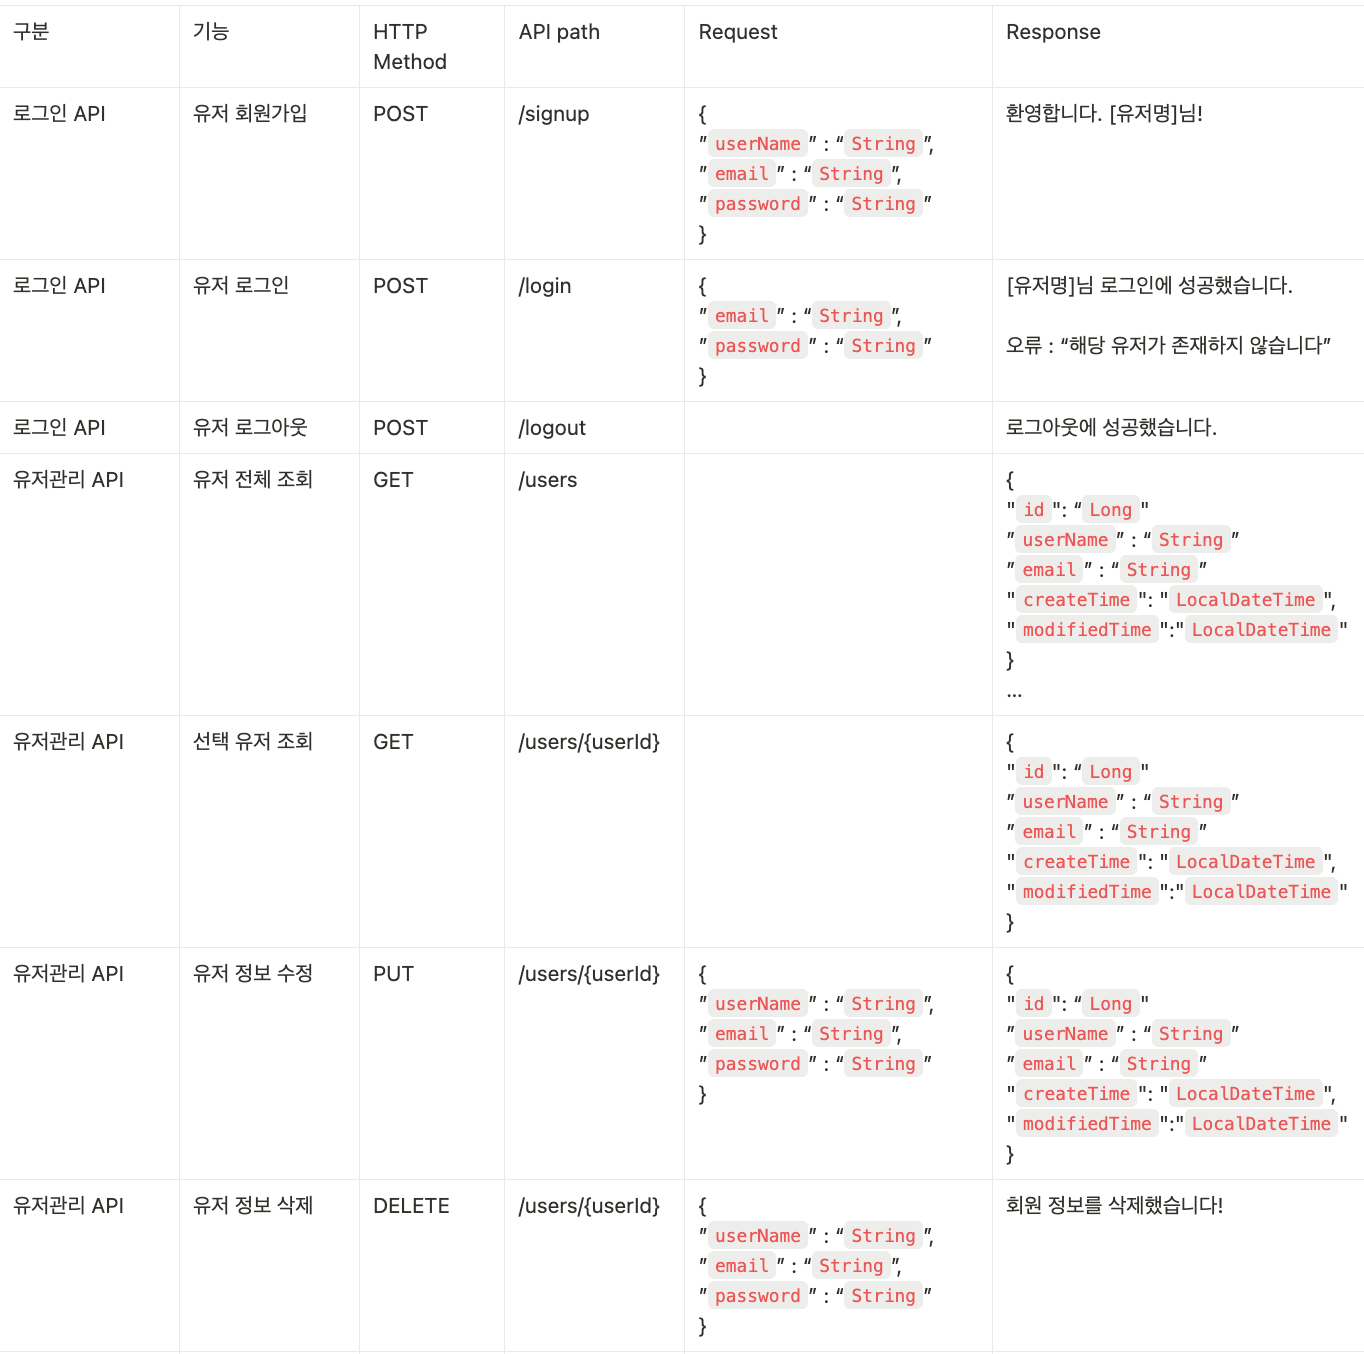
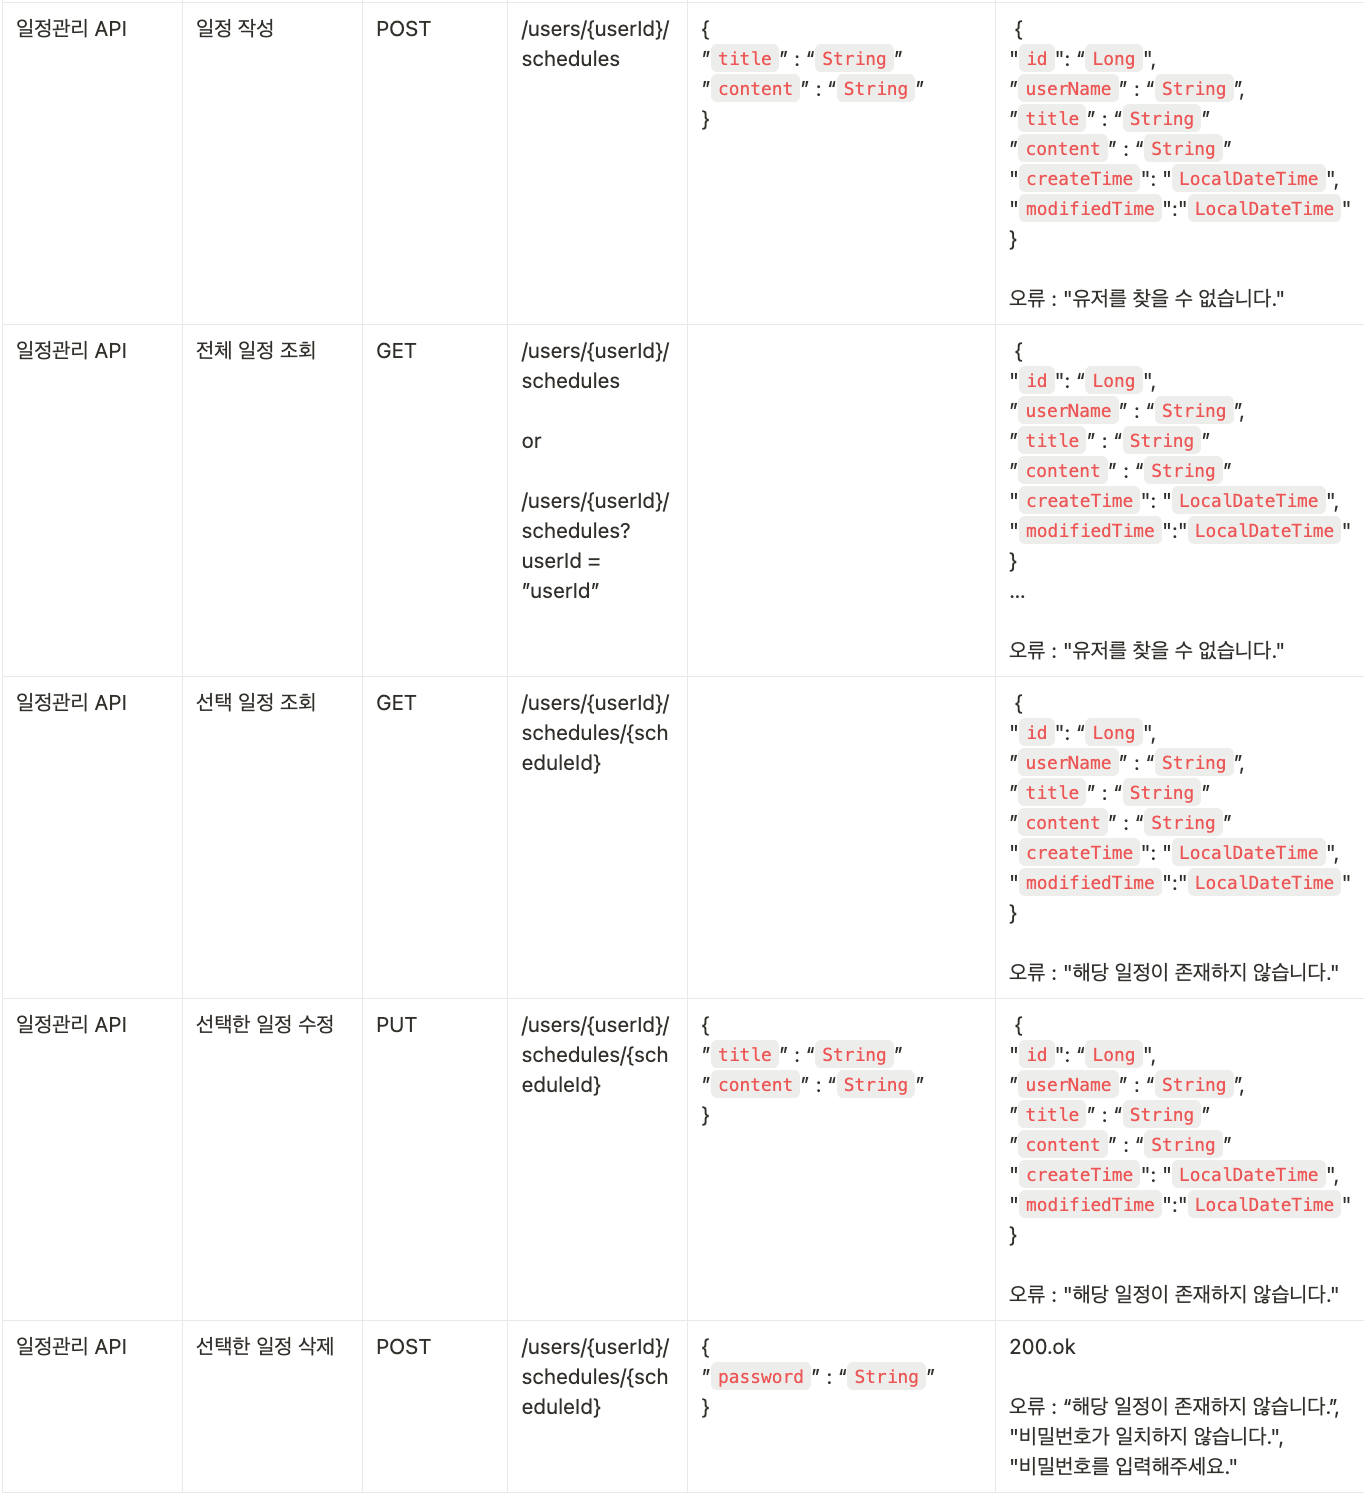
코드 설명 주석처리 및 리드미 작성 및 변경사항 수정

diff --git a/src/main/java/org/example/scheduleManagement/schedule/controller/ScheduleController.java b/src/main/java/org/example/scheduleManagement/schedule/controller/ScheduleController.java
@@ -13,48 +13,56 @@ import org.springframework.web.bind.annotation.*;
 
 import java.util.List;
 
-@RestController
-@RequiredArgsConstructor
-@RequestMapping("/users")
+@RestController // Controller + ResponseBody
+@RequiredArgsConstructor // final 필드에 대한 생성자를 자동 생성
+@RequestMapping("/users") // 이 컨트롤러의 기본 URL "/users"로 지정
 public class ScheduleController {
     private final ScheduleService scheduleService;
 
+    // 일정 등록 주소(Post) http://localhost:8080/users/{userId}/schedules
     @PostMapping("/{userId}/schedules")
     public ResponseEntity<SchedulePostResponse> schedulePost(
             @RequestBody SchedulePostRequest schedulePostRequest,
-            @PathVariable Long userId
+            @PathVariable Long userId // URL 경로에서 사용자 ID를 입력 받는다.
     ) {
         return ResponseEntity.ok(scheduleService.createSchedule(userId, schedulePostRequest));
     }
 
+    // 모든 일정 조회 or 특정 사용자(userId)의 일정만 조회
+    // 주소(Get) http://localhost:8080/users/{userId}/schedules
+    // OR http://localhost:8080/users/users/{userId}/schedules?userId = ”userId”
     @GetMapping("/schedules")
     public ResponseEntity<List<ScheduleGetResponse>> getSchedules(
-            @RequestParam(required = false) Long userId // 유저 아이디가 있을 수도 있고 없을 수도 있다.
+            @RequestParam(required = false) Long userId // 유저 아이디가 있을 수도 있고 없을 수도 있다.(null 가능)
     ) {
+        // userId가 있으면 해당 유저 일정만, 없으면 전체 일정 조회
         return ResponseEntity.ok(scheduleService.getSchedules(userId));
     }
 
+    // 일정 선택 조회 주소(Get) http://localhost:8080/users/{userId}/schedules/{scheduleId}
     @GetMapping("/{userId}/schedules/{scheduleId}")
     public ResponseEntity<ScheduleGetResponse> getSchedule(
-            @PathVariable Long userId,
-            @PathVariable Long scheduleId
+            @PathVariable Long userId, // URL 경로에서 사용자 ID를 입력 받는다.
+            @PathVariable Long scheduleId // URL 경로에서 일정 ID를 입력 받는다.
     ) {
         return ResponseEntity.ok(scheduleService.getSchedule(userId, scheduleId));
     }
 
+    // 일정 수정 주소(Put) http://localhost:8080/users/{userId}/schedules/{scheduleId}
     @PutMapping("/{userId}/schedules/{scheduleId}")
     public ResponseEntity<SchedulePutResponse> updateSchedule(
-            @RequestBody SchedulePutRequest schedulePutRequest,
-            @PathVariable Long userId,
-            @PathVariable Long scheduleId
-    ) {
+            @PathVariable Long userId, // URL 경로에서 사용자 ID를 입력 받는다.
+            @PathVariable Long scheduleId, // URL 경로에서 일정 ID를 입력 받는다.
+            @RequestBody SchedulePutRequest schedulePutRequest
+            ) {
         return ResponseEntity.ok(scheduleService.updateSchedule(userId, scheduleId, schedulePutRequest));
     }
 
+    // 일정 삭제 주소(Post) http://localhost:8080/users/{userId}/schedules/{scheduleId}
     @PostMapping("/{userId}/schedules/{scheduleId}")
     public ResponseEntity<Void> deleteSchedule(
-            @PathVariable Long userId,
-            @PathVariable Long scheduleId,
+            @PathVariable Long userId, // URL 경로에서 사용자 ID를 입력 받는다.
+            @PathVariable Long scheduleId, // URL 경로에서 일정 ID를 입력 받는다.
             @RequestBody ScheduleDeleteRequest scheduleDeleteRequest
     ) {
         scheduleService.deleteSchedule(userId, scheduleId, scheduleDeleteRequest);

diff --git a/src/main/java/org/example/scheduleManagement/auth/controller/AuthController.java b/src/main/java/org/example/scheduleManagement/auth/controller/AuthController.java
@@ -13,18 +13,18 @@ import org.springframework.web.bind.annotation.PostMapping;
 import org.springframework.web.bind.annotation.RequestBody;
 import org.springframework.web.bind.annotation.RestController;
 
-@RestController
-@RequiredArgsConstructor
+@RestController// Controller + ResponseBody
+@RequiredArgsConstructor // final 필드에 대한 생성자를 자동 생성
 public class AuthController {
 
     private final AuthService authService;
 
-    // 회원가입 - 유저, 이메일, 비밀번호
+    // 회원가입 API - 유저, 이메일, 비밀번호
     @PostMapping("/signup")
     public ResponseEntity<SignupResponse> signup(
             @RequestBody SignupRequest signupRequest
     ) {
-        authService.signup(signupRequest);
+        authService.signup(signupRequest); // 회원가입 처리
         return ResponseEntity.ok(
                 new SignupResponse(
                         signupRequest.getUserName()
@@ -32,15 +32,16 @@ public class AuthController {
         );
     }
 
-    // 로그인 - 이메일, 비밀번호
+    // 로그인 API - 이메일, 비밀번호
     @PostMapping("/login")
     public ResponseEntity<LoginResponse> login(
             @RequestBody LoginRequest loginRequest,
             HttpServletRequest request
     ) {
-        //
+        // 로그인 검증 로직 실행
         LoginResponse loginResponse = authService.login(loginRequest);
 
+        // 세션 생성 후 로그인 사용자 정보 저장
         HttpSession httpSession = request.getSession();
         httpSession.setAttribute("LOGIN_USER", loginResponse.getUserName());
         return ResponseEntity.ok(
@@ -51,9 +52,10 @@ public class AuthController {
         );
     }
 
-    // 로그아웃
+    // 로그아웃 API
     @PostMapping("/logout")
     public ResponseEntity<Void> logout(HttpServletRequest request) {
+        // 세션이 존재하면 제거
         HttpSession httpSession = request.getSession(false);
         if (httpSession != null) {
             httpSession.invalidate();

diff --git a/src/main/java/org/example/scheduleManagement/user/controller/UserController.java b/src/main/java/org/example/scheduleManagement/user/controller/UserController.java
@@ -11,13 +11,13 @@ import org.springframework.web.bind.annotation.*;
 
 import java.util.List;
 
-@RestController
-@RequiredArgsConstructor
+@RestController // Controller + ResponseBody
+@RequiredArgsConstructor // final 필드에 대한 생성자를 자동 생성
 @RequestMapping("/users") // 공통 주소
 public class UserController {
     private final UserService userService;
 
-//    // 유저 등록
+//    // 유저 등록 // 회원가입으로 유저를 생성하기 때문에 유저 등록 구현들은 주석 처리
 //    @PostMapping()
 //    public ResponseEntity<UserPostResponse> createUser(
 //            @RequestBody UserPostRequest userPostRequest
@@ -25,13 +25,13 @@ public class UserController {
 //        return ResponseEntity.ok(userService.createUser(userPostRequest));
 //    }
 
-    // 유저 전체 조회
+    // 유저 전체 조회 // 주소(Get) http://localhost:8080/users
     @GetMapping()
     public ResponseEntity<List<UserGetResponse>> getAllUsers() {
         return ResponseEntity.ok(userService.getUsers());
     }
 
-    // 선택 유저 조회
+    // 선택 유저 조회 // 주소(Get) http://localhost:8080/users/{userId}
     @GetMapping("/{userId}")
     public ResponseEntity<UserGetResponse> getUserById(
             @PathVariable Long userId
@@ -39,7 +39,7 @@ public class UserController {
         return ResponseEntity.ok(userService.getUserById(userId));
     }
 
-    // 유저 정보 수정
+    // 유저 정보 수정 // 주소(Put) http://localhost:8080/users/{userId}
     @PutMapping("/{userId}")
     public ResponseEntity<UserPutResponse> updateUser(
             @PathVariable Long userId,
@@ -48,7 +48,7 @@ public class UserController {
         return ResponseEntity.ok(userService.updateUser(userId, userPutRequest));
     }
 
-    // 유저 정보 삭제
+    // 유저 정보 삭제 // 주소(Post) http://localhost:8080/users/{userId}
     @PostMapping("/{userId}")
     public ResponseEntity<Void> deleteUser(
             @PathVariable Long userId,

diff --git a/src/main/java/org/example/scheduleManagement/auth/Filter/LoginFilter.java b/src/main/java/org/example/scheduleManagement/auth/Filter/LoginFilter.java
@@ -8,29 +8,32 @@ import org.springframework.util.PatternMatchUtils;
 import java.io.IOException;
 
 public class LoginFilter implements Filter {
+    // 로그인 검증을 건너뛸 수 있는 URL 목록 (화이트리스트)
     private static final String[] WHITE_LIST = {"/", "/signup", "/login","/logout"};
 
     @Override
     public void doFilter(
-            ServletRequest request,
-            ServletResponse response,
-            FilterChain chain
+            ServletRequest request, // 클라이언트 요청
+            ServletResponse response, // 서버 응답
+            FilterChain chain // 다음 필터 또는 서블릿으로 요청 전달
     ) throws IOException, ServletException {
 
         HttpServletRequest httpRequest = (HttpServletRequest) request;
-        String requestURI = httpRequest.getRequestURI();
+        String requestURI = httpRequest.getRequestURI(); // 요청된 URI 추출
 
+        // 화이트리스트에 포함되지 않은 URI라면 로그인 여부 체크
         if (!isWhiteList(requestURI)) {
-            HttpSession session = httpRequest.getSession(false);
+            HttpSession session = httpRequest.getSession(false); // 세션 가져오기(없으면 null)
 
             // 로그인하지 않은 사용자인 경우
             if (session == null || session.getAttribute("LOGIN_USER") == null) {
                 throw new RuntimeException("로그인 해주세요.");
             }
         }
+        // 다음 필터 또는 컨트롤러로 요청 전달
         chain.doFilter(request, response);
     }
-
+    // 요청 URI가 화이트리스트에 포함되어 있는지 확인
     private boolean isWhiteList(String requestURI) {
         return PatternMatchUtils.simpleMatch(WHITE_LIST, requestURI);
     }

diff --git a/src/main/java/org/example/scheduleManagement/auth/service/AuthService.java b/src/main/java/org/example/scheduleManagement/auth/service/AuthService.java
@@ -13,21 +13,24 @@ import org.springframework.transaction.annotation.Transactional;
 import org.springframework.web.server.ResponseStatusException;
 
 @Service
-@RequiredArgsConstructor
+@RequiredArgsConstructor  // final 필드에 대한 생성자를 자동 생성
 public class AuthService {
     private final UserRepository userRepository;
 
     // 회원가입
     @Transactional
     public SignupResponse signup(SignupRequest signupRequest) {
+        // 이메일 중복 체크
         if (userRepository.findByEmail(signupRequest.getEmail()).isPresent()) {
             throw new IllegalArgumentException("이미 존재하는 이메일 입니다.");
         }
+        // User 엔티티 생성
         User user = new User(
                 signupRequest.getUserName(),
                 signupRequest.getEmail(),
                 signupRequest.getPassword()
         );
+        // DB 저장
         userRepository.save(user);
         return new SignupResponse(user.getUserName());
     }
@@ -35,10 +38,12 @@ public class AuthService {
     // 로그인
     @Transactional(readOnly = true)
     public LoginResponse login(LoginRequest loginRequest) {
+        // 이메일과 비밀번호로 유저 검색 (없으면 401 예외)
         User user = userRepository.findByEmailAndPassword(
                 loginRequest.getEmail(),
                 loginRequest.getPassword()
         ).orElseThrow(() -> new ResponseStatusException(HttpStatus.UNAUTHORIZED));
+
         return new LoginResponse(user.getId(), user.getUserName());
     }
 }

diff --git a/src/main/java/org/example/scheduleManagement/baseEntity/BaseEntity.java b/src/main/java/org/example/scheduleManagement/baseEntity/BaseEntity.java
@@ -9,17 +9,17 @@ import org.springframework.data.jpa.domain.support.AuditingEntityListener;
 import java.time.LocalDateTime;
 
 @Getter
-@MappedSuperclass
-@EntityListeners(AuditingEntityListener.class)
+@MappedSuperclass // JPA: 해당 클래스를 상속받는 엔티티들이 이 필드들을 컬럼으로 인식하도록 함
+@EntityListeners(AuditingEntityListener.class) // 엔티티 변경 시 생성일, 수정일을 자동으로 기록해주는 리스너 등록
 public abstract class BaseEntity {
 
-    @CreatedDate
-    @Column(updatable = false)
-    @Temporal(TemporalType.TIMESTAMP)
-    private LocalDateTime createTime;
+    @CreatedDate // 데이터 생성 시 현재 시간을 자동으로 저장
+    @Column(updatable = false) // 생성일은 한 번 저장되면 수정되지 않도록 설정
+    @Temporal(TemporalType.TIMESTAMP) // 시간 타입을 TIMESTAMP로 지정 (날짜+시간)
+    private LocalDateTime createTime; // 생성 시간
 
-    @LastModifiedDate
-    @Temporal(TemporalType.TIMESTAMP)
-    private LocalDateTime modifiedTime;
+    @LastModifiedDate // 데이터 수정 시 현재 시간을 자동으로 갱신
+    @Temporal(TemporalType.TIMESTAMP) // 시간 타입을 TIMESTAMP로 지정 (날짜+시간)
+    private LocalDateTime modifiedTime; // 마지막 수정 시간
 
 }

diff --git a/src/main/java/org/example/scheduleManagement/schedule/entity/Schedule.java b/src/main/java/org/example/scheduleManagement/schedule/entity/Schedule.java
@@ -8,8 +8,8 @@ import org.example.scheduleManagement.user.entity.User;
 
 @Entity
 @Getter
-@NoArgsConstructor
-@Table(name = "Schedule")
+@NoArgsConstructor // 기본 생성자(매개변수가 없는 생성자)를 생성
+@Table(name = "Schedule") // 테이블 명은 Schedule
 public class Schedule extends BaseEntity {
 
     @Id
@@ -20,14 +20,14 @@ public class Schedule extends BaseEntity {
 //    @Column(name = "user_name", nullable = false) 유저에 이미 유저 이름이 포함되어 있기 때문에 주석 처리
 //    private String userName; // 임시 유저 이름
 
-    @Column(name = "title", nullable = false)
+    @Column(name = "title", nullable = false) // null이 포함될 수 없다.
     private String title; // 일정 제목
 
-    @Column(name = "content", nullable = false)
+    @Column(name = "content", nullable = false) // null이 포함될 수 없다.
     private String content; // 일정 내용
 
     @ManyToOne(fetch = FetchType.LAZY)
-    @JoinColumn(name = "user_id", nullable = false)
+    @JoinColumn(name = "user_id", nullable = false) // null이 포함될 수 없다.
     private User user;
 
 //    public Schedule(String userName, String title, String content, User user) {

diff --git a/src/main/java/org/example/scheduleManagement/user/entity/User.java b/src/main/java/org/example/scheduleManagement/user/entity/User.java
@@ -8,22 +8,22 @@ import org.example.scheduleManagement.baseEntity.BaseEntity;
 @Entity
 @Getter
 @NoArgsConstructor
-@Table(name = "User")
+@Table(name = "User") // 테이블 명은 User
 public class User extends BaseEntity {
 
     @Id
     @GeneratedValue(strategy = GenerationType.IDENTITY)
     @Column(name = "id")
-    private Long id;
+    private Long id; // 유저 고유 아이디
 
     @Column(name = "user_name")
-    private String userName;
+    private String userName; // 유저명
 
     @Column(name = "email")
-    private String email;
+    private String email; // 이메일
 
     @Column(name = "password")
-    private String password;
+    private String password; // 비밀번호
 
     public User(String userName, String email, String password) {
         this.userName = userName;
@@ -31,6 +31,7 @@ public class User extends BaseEntity {
         this.password = password;
     }
 
+    // 수정할 때 사용할 생성자
     public void updateUser(String userName, String email, String password) {
         this.userName = userName;
         this.email = email;

diff --git a/src/main/java/org/example/scheduleManagement/schedule/service/ScheduleService.java b/src/main/java/org/example/scheduleManagement/schedule/service/ScheduleService.java
@@ -19,7 +19,7 @@ import java.util.ArrayList;
 import java.util.List;
 
 @Service
-@RequiredArgsConstructor
+@RequiredArgsConstructor // final 필드에 대한 생성자를 자동 생성
 @Transactional(readOnly = true)
 public class ScheduleService {
     private final ScheduleRepository scheduleRepository;
@@ -92,7 +92,7 @@ public class ScheduleService {
         if (userId != null) { // 만약 유저 아이디의 값이 있다면...
             schedules = scheduleRepository.findByUserId(userId); // 일정 저장소에 유저 아이디로 조회
 
-            User user = userRepository.findById(userId).orElseThrow( // 유저 아이디 검증 로직
+            userRepository.findById(userId).orElseThrow( // 유저 아이디 검증 로직
                     () -> new IllegalArgumentException("유저를 찾을 수 없습니다.") // 예외 처리
             );
         }

diff --git a/src/main/java/org/example/scheduleManagement/JavaScheduleUserApplication.java b/src/main/java/org/example/scheduleManagement/JavaScheduleUserApplication.java
@@ -2,13 +2,12 @@ package org.example.scheduleManagement;
 
 import org.springframework.boot.SpringApplication;
 import org.springframework.boot.autoconfigure.SpringBootApplication;
-import org.springframework.data.jpa.repository.config.EnableJpaAuditing;
 
-@EnableJpaAuditing
 @SpringBootApplication
-public class JavaScheduleUserApplication {
+public class JavaScheduleUserApplication { // 스프링 부트의 자동 설정, 컴포넌트 스캔, Bean 등록 기능을 활성화
 
     public static void main(String[] args) {
+        // Spring Boot 애플리케이션을 실행
         SpringApplication.run(JavaScheduleUserApplication.class, args);
     }
 }

diff --git a/src/main/java/org/example/scheduleManagement/config/JpaConfig.java b/src/main/java/org/example/scheduleManagement/config/JpaConfig.java
@@ -1,0 +1,9 @@
+package org.example.scheduleManagement.config;
+
+import org.springframework.context.annotation.Configuration;
+import org.springframework.data.jpa.repository.config.EnableJpaAuditing;
+
+@Configuration // 해당 클래스가 스프링 설정 클래스임을 나타냄
+@EnableJpaAuditing // JPA 감사(Auditing) 기능 설정
+public class JpaConfig {
+}

diff --git a/src/main/java/org/example/scheduleManagement/auth/Filter/FilterConfig.java b/src/main/java/org/example/scheduleManagement/auth/Filter/FilterConfig.java
@@ -5,7 +5,7 @@ import org.springframework.boot.web.servlet.FilterRegistrationBean;
 import org.springframework.context.annotation.Bean;
 import org.springframework.context.annotation.Configuration;
 
-@Configuration
+@Configuration // 스프링 설정 클래스
 public class FilterConfig {
     @Bean
     public FilterRegistrationBean loginFilter() {
